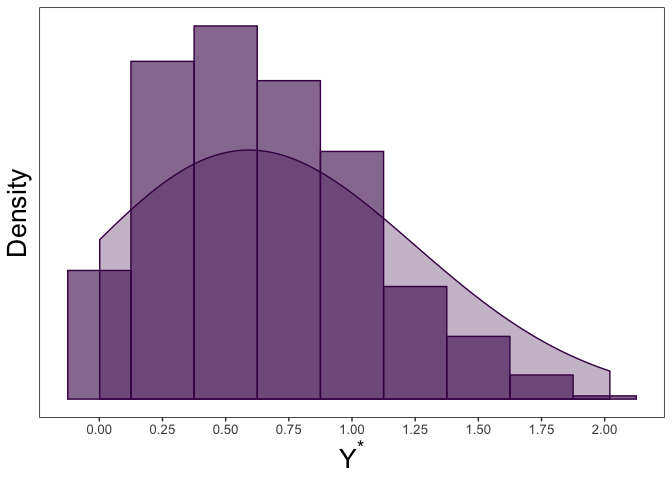
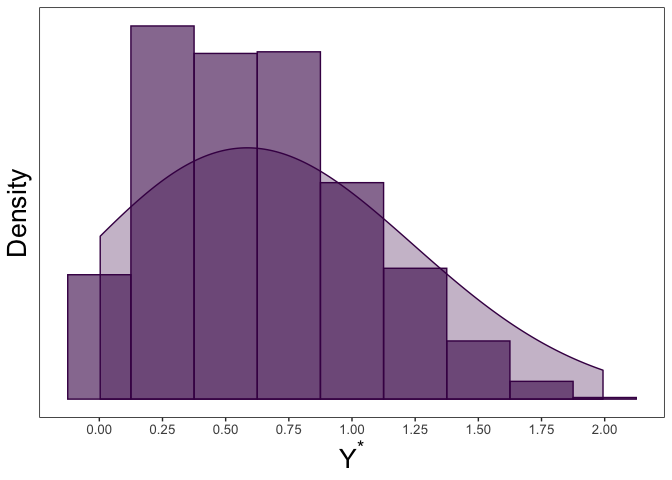
updating installation guide to use CRAN repository

diff --git a/README.md b/README.md
@@ -17,15 +17,10 @@ arXiv:[1911.11221](https://arxiv.org/abs/1911.11221).
 
 # Installation
 
-You can install `tcensReg` from GitHub via the devtools package with:
+You can install `tcensReg` from CRAN:
 
 ``` r
-install.packages("devtools")
-devtools::install_github("williazo/tcensReg")
-#to install the package with the accompaining vignette use the command below
-devtools::install_github("williazo/tcensReg", 
-                         build_opts=c("--no-resave-data", "--no-manual"),
-                         build_vignettes=TRUE)
+install.packages("tcensReg")
 ```
 
 # Example 1: Single Population
@@ -52,7 +47,7 @@ y_star <- rtnorm(n=1000, mu=mu, sd=sigma, a=a)
 round(range(y_star), 3)
 ```
 
-    ## [1] 0.002 2.021
+    ## [1] 0.004 1.993
 
 Next, we can imagine a scenario where we have an imprecise measurement
 of `y_star` leading to censoring. In our case we assume that values
@@ -68,7 +63,7 @@ y <- ifelse(y_star <= nu, nu, y_star)
 sum(y == nu)/length(y) 
 ```
 
-    ## [1] 0.175
+    ## [1] 0.194
 
 ``` r
 #collecting the uncensored and censored data together
@@ -93,22 +88,22 @@ tcensReg(y ~ 1, data=dt, a=0, v=0.25)
 
     ## $theta
     ##               Estimate
-    ## (Intercept)  0.4985961
-    ## log_sigma   -0.6756989
+    ## (Intercept)  0.4778344
+    ## log_sigma   -0.6738206
     ## 
     ## $convergence
     ## [1] 0
     ## 
     ## $initial_ll
-    ## [1] -678.9649
+    ## [1] -692.9344
     ## 
     ## $final_ll
-    ## [1] -663.5982
+    ## [1] -677.5428
     ## 
     ## $var_cov
     ##               (Intercept)     log_sigma
-    ## (Intercept)  0.0009021109 -0.0008835813
-    ## log_sigma   -0.0008835813  0.0016105281
+    ## (Intercept)  0.0009767877 -0.0009602282
+    ## log_sigma   -0.0009602282  0.0016796832
     ## 
     ## $method
     ## [1] "CG"
@@ -157,9 +152,9 @@ knitr::kable(results_df, format="markdown", digits=4)
 |            |     mu |  sigma | mu\_bias | sigma\_bias |
 | :--------- | -----: | -----: | -------: | ----------: |
 | Truth      | 0.5000 | 0.5000 |   0.0000 |      0.0000 |
-| tcensReg   | 0.4986 | 0.5088 |   0.0014 |      0.0088 |
-| Normal MLE | 0.6693 | 0.3761 |   0.1693 |      0.1239 |
-| Tobit      | 0.6267 | 0.4393 |   0.1267 |      0.0607 |
+| tcensReg   | 0.4778 | 0.5098 |   0.0222 |      0.0098 |
+| Normal MLE | 0.6594 | 0.3702 |   0.1594 |      0.1298 |
+| Tobit      | 0.6113 | 0.4408 |   0.1113 |      0.0592 |
 
 Other methods result in significant bias for both `mu` and `sigma`.
 
@@ -213,28 +208,28 @@ mod_result
 
     ## $theta
     ##       (Intercept) groupPopulation 2        log_sigma1        log_sigma2 
-    ##         0.5011022         0.1918981        -1.4297372         0.7564070 
+    ##         0.4875891         0.6475935        -1.4094346         0.6907025 
     ## 
     ## $convergence
-    ## [1] 1
+    ## [1] 2
     ## 
     ## $initial_ll
-    ## [1] -1929.509
+    ## [1] -1941.744
     ## 
     ## $final_ll
-    ## [1] -1839.385
+    ## [1] -1864.28
     ## 
     ## $var_cov
     ##                     (Intercept) groupPopulation 2    log_sigma1
-    ## (Intercept)        6.863419e-05     -6.863419e-05 -5.841808e-05
-    ## groupPopulation 2 -6.863419e-05      5.232715e-02  5.841808e-05
-    ## log_sigma1        -5.841808e-05      5.841808e-05  7.742292e-04
-    ## log_sigma2         0.000000e+00     -1.103773e-02  6.715368e-21
+    ## (Intercept)        7.455164e-05     -7.455164e-05 -7.176795e-05
+    ## groupPopulation 2 -7.455164e-05      2.833121e-02  7.176795e-05
+    ## log_sigma1        -7.176795e-05      7.176795e-05  8.143326e-04
+    ## log_sigma2        -4.901979e-15     -6.821170e-03  4.718944e-15
     ##                      log_sigma2
-    ## (Intercept)        0.000000e+00
-    ## groupPopulation 2 -1.103773e-02
-    ## log_sigma1         6.715368e-21
-    ## log_sigma2         2.904511e-03
+    ## (Intercept)       -4.901979e-15
+    ## groupPopulation 2 -6.821170e-03
+    ## log_sigma1         4.718944e-15
+    ## log_sigma2         2.283660e-03
     ## 
     ## $method
     ## [1] "maxLik"
@@ -258,7 +253,7 @@ knitr::kable(results_df, format="markdown", digits=4)
 |          |  mu\_1 |  mu\_2 | sigma\_1 | sigma\_2 | mu1\_bias | mu2\_bias | sigma1\_bias | sigma2\_bias |
 | :------- | -----: | -----: | -------: | -------: | --------: | --------: | -----------: | -----------: |
 | Truth    | 0.5000 | 1.0000 |   0.2500 |   2.0000 |    0.0000 |    0.0000 |       0.0000 |       0.0000 |
-| tcensReg | 0.5011 | 0.1919 |   0.2394 |   2.1306 |    0.0011 |    0.8081 |       0.0106 |       0.1306 |
+| tcensReg | 0.4876 | 0.6476 |   0.2443 |   1.9951 |    0.0124 |    0.3524 |       0.0057 |       0.0049 |
 
 # Performance Comparison: Censored-Only and Truncated-Only
 
@@ -279,10 +274,10 @@ cens <- microbenchmark(tcensReg_method = tcensReg(y ~ 1, data=dt, v=nu, method="
 knitr::kable(summary(cens), format="markdown", digits=4)
 ```
 
-| expr             |     min |      lq |    mean |  median |     uq |      max | neval | cld |
-| :--------------- | ------: | ------: | ------: | ------: | -----: | -------: | ----: | :-- |
-| tcensReg\_method |  4.9066 |  5.1803 |  8.1753 |  5.4755 |  7.566 | 114.0816 |   100 | a   |
-| censReg\_method  | 13.7456 | 14.5153 | 20.2144 | 19.1902 | 22.658 |  50.6535 |   100 | b   |
+| expr             |     min |      lq |    mean |  median |      uq |     max | neval | cld |
+| :--------------- | ------: | ------: | ------: | ------: | ------: | ------: | ----: | :-- |
+| tcensReg\_method |  4.8988 |  5.0706 |  6.2779 |  5.2245 |  6.1985 | 13.5982 |   100 | a   |
+| censReg\_method  | 13.7588 | 14.3828 | 20.1981 | 19.3609 | 22.1070 | 94.7555 |   100 | b   |
 
 ``` r
 #point estimates are equivalent
@@ -304,8 +299,8 @@ knitr::kable(summary(trunc), format="markdown", digits=4)
 
 | expr             |     min |      lq |    mean |  median |      uq |     max | neval | cld |
 | :--------------- | ------: | ------: | ------: | ------: | ------: | ------: | ----: | :-- |
-| tcensReg\_method |  8.4382 |  9.1253 | 11.8149 | 10.5998 | 14.1876 | 23.9085 |   100 | a   |
-| truncreg\_method | 26.4334 | 29.7325 | 35.8368 | 35.4929 | 39.7004 | 58.7695 |   100 | b   |
+| tcensReg\_method |  8.3232 |  8.6242 | 10.2803 |  9.0937 | 10.9995 | 21.4538 |   100 | a   |
+| truncreg\_method | 26.8182 | 28.7343 | 32.5956 | 32.6787 | 34.2838 | 42.0412 |   100 | b   |
 
 ``` r
 tcensReg_est <- as.numeric(tcensReg(y_star ~ 1, data=dt, a=a, method="Newton")$theta)
@@ -315,7 +310,7 @@ truncreg_est <- as.numeric(coef(truncreg(y_star ~ 1, point=a, data=dt)))
 all.equal(tcensReg_est, truncreg_est)
 ```
 
-    ## [1] "Mean relative difference: 3.784587e-08"
+    ## [1] "Mean relative difference: 6.765638e-08"
 
 In the comparisons above we are using an intercept only model, but in
 general we expect that interest lies in understanding how a set of
@@ -348,8 +343,8 @@ knitr::kable(summary(cens), format="markdown", digits=4)
 
 | expr             |      min |       lq |     mean |   median |       uq |      max | neval | cld |
 | :--------------- | -------: | -------: | -------: | -------: | -------: | -------: | ----: | :-- |
-| tcensReg\_method | 210.3525 | 222.9624 | 262.6200 | 237.2924 | 267.8209 | 597.6426 |   100 | a   |
-| censReg\_method  | 296.9716 | 320.5128 | 369.1039 | 343.6256 | 381.9709 | 792.4725 |   100 | b   |
+| tcensReg\_method | 239.6229 | 252.3713 | 282.4082 | 266.8667 | 287.2247 | 463.9361 |   100 | a   |
+| censReg\_method  | 322.4404 | 352.1741 | 399.5644 | 370.3153 | 419.7930 | 735.0033 |   100 | b   |
 
 ``` r
 #point estimates are equivalent
@@ -358,7 +353,7 @@ censReg_est <- as.numeric(coef(censReg(y ~ ., left=nu, data=dt)))
 all.equal(tcensReg_est, censReg_est)
 ```
 
-    ## [1] "Mean relative difference: 0.0001325076"
+    ## [1] "Mean relative difference: 5.836655e-05"
 
 ``` r
 #testing the truncated-only regression with 100 covariates
@@ -369,8 +364,8 @@ knitr::kable(summary(trunc), format="markdown", digits=4)
 
 | expr             |      min |       lq |     mean |   median |       uq |      max | neval | cld |
 | :--------------- | -------: | -------: | -------: | -------: | -------: | -------: | ----: | :-- |
-| tcensReg\_method | 234.3927 | 244.0613 | 266.6726 | 252.3333 | 274.7074 | 478.7629 |   100 | a   |
-| truncreg\_method | 357.4169 | 376.8427 | 422.9028 | 402.9691 | 433.9967 | 701.5482 |   100 | b   |
+| tcensReg\_method | 287.1785 | 297.9352 | 316.3781 | 305.2113 | 325.1183 | 650.2492 |   100 | a   |
+| truncreg\_method | 315.6116 | 324.9087 | 352.0834 | 334.6383 | 359.1795 | 659.4248 |   100 | b   |
 
 ``` r
 tcensReg_est <- as.numeric(tcensReg(y_star ~ ., data=dt, a=a, method="BFGS")$theta)
@@ -380,4 +375,4 @@ truncreg_est <- as.numeric(coef(truncreg(y_star ~ ., point=a, data=dt)))
 all.equal(tcensReg_est, truncreg_est)
 ```
 
-    ## [1] "Mean relative difference: 4.399461e-05"
+    ## [1] "Mean relative difference: 8.163993e-05"
